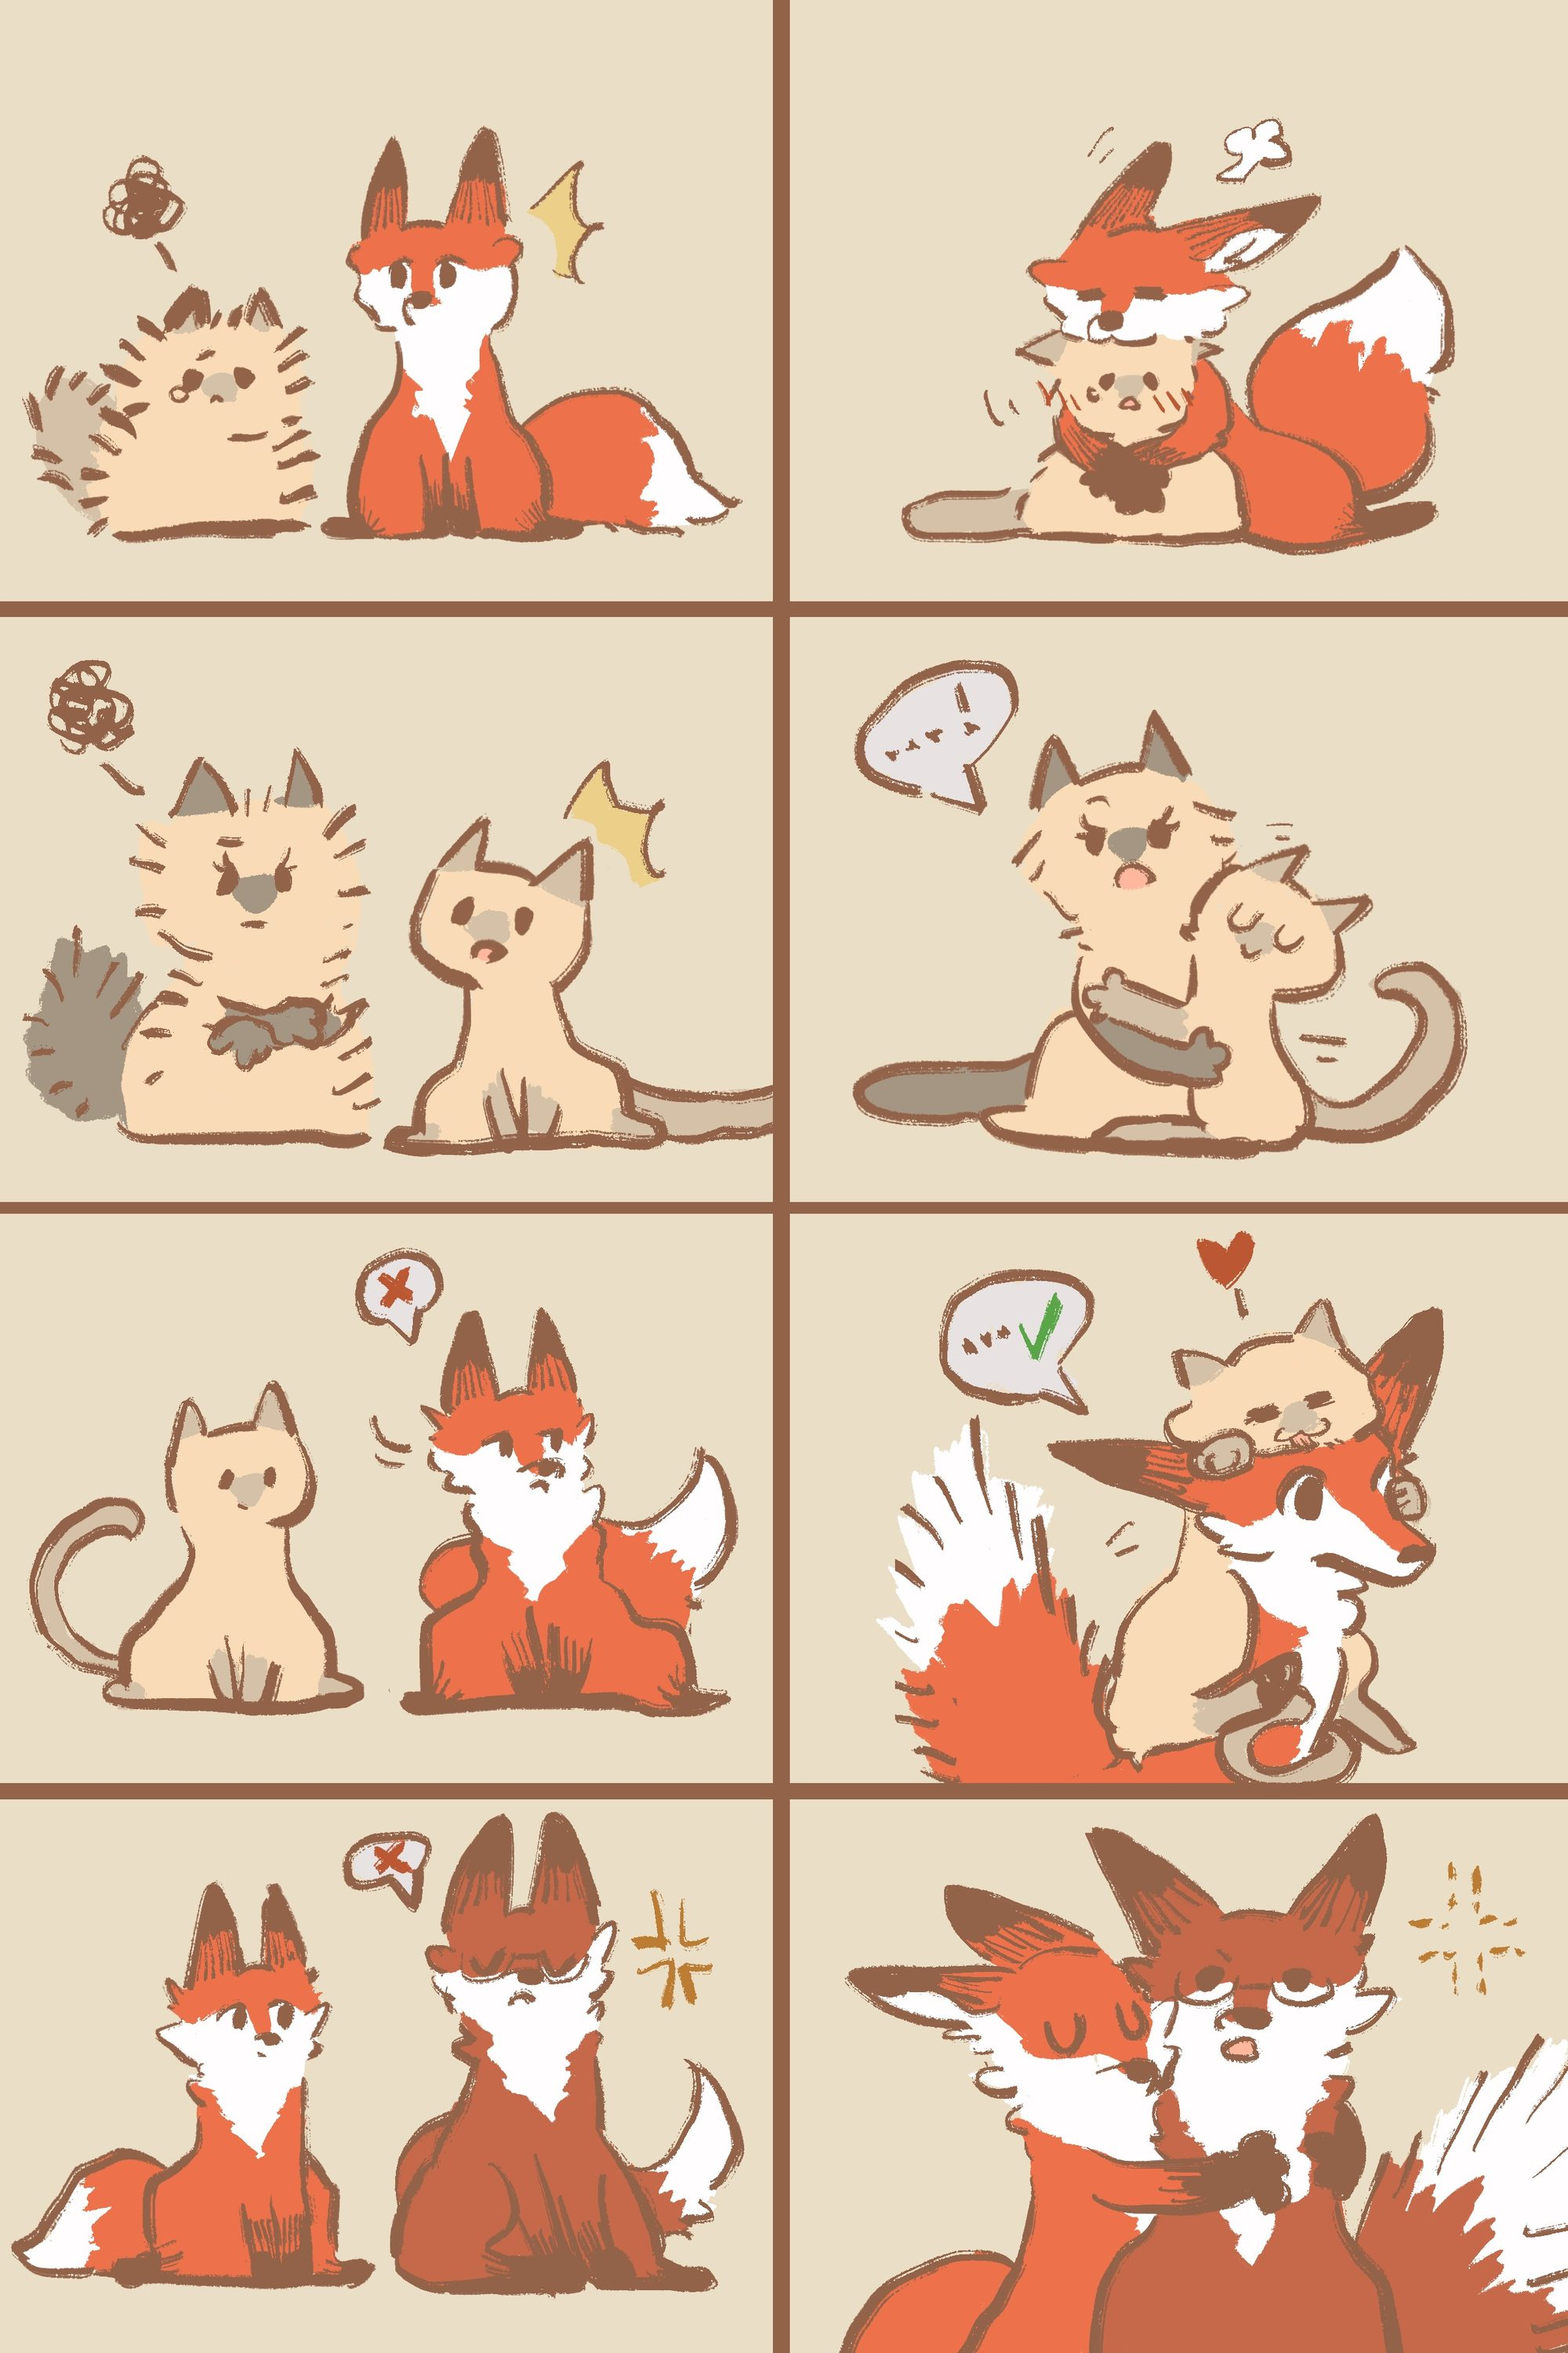
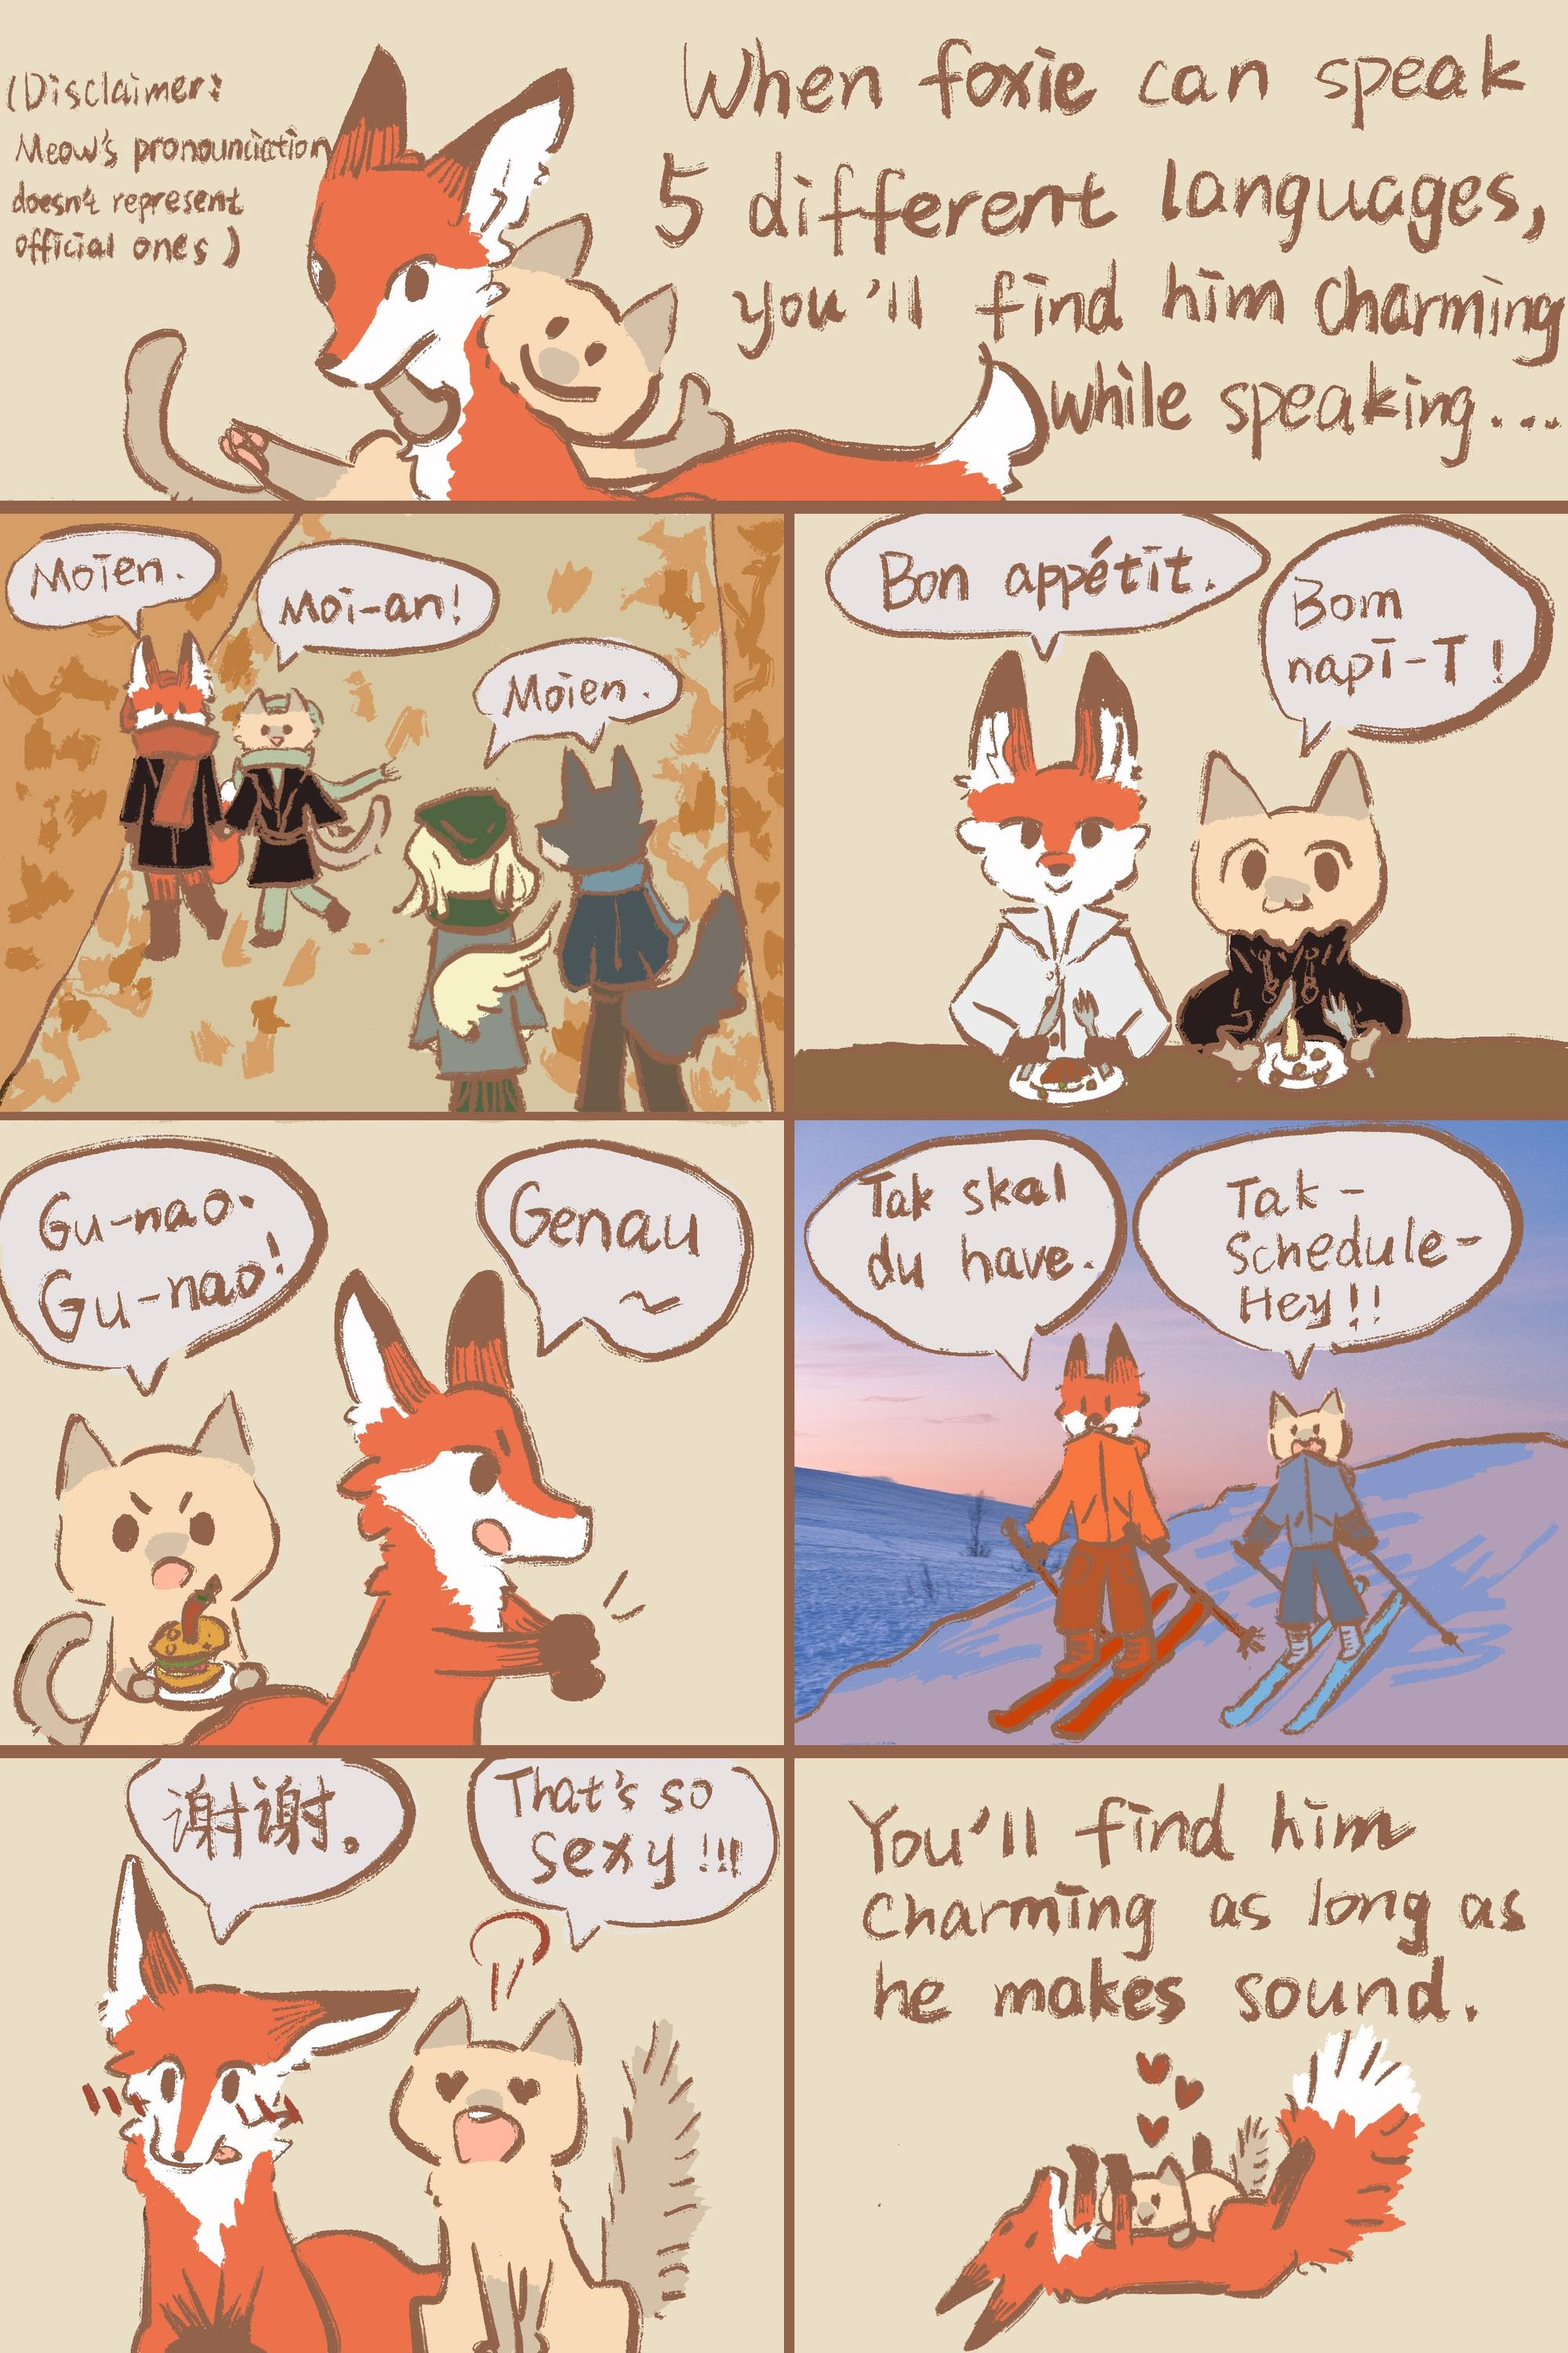
Add new poster to Graphic Designs and illustration to Illustrations
- graphic designs9.jpeg (Fantastical Worlds poster), compressed
- illustrations29.jpeg (fox illustration)
- Comics renumbering (comics6-8, comics9 removed) included so the
  regenerated drawings-data.js matches the images on disk
- Visual Arts count now 58 works

diff --git a/gallery/data/drawings-data.js b/gallery/data/drawings-data.js
@@ -43,7 +43,7 @@
   }
 
   window.DRAWINGS_DATA = {
-    totalCount: 56,
+    totalCount: 58,
     collections: [
       {
         id: "sketches",
@@ -68,31 +68,32 @@
         images: [
         { id: "illustrations-015", src: "../images/gallery/drawings/illustration/illustrations15.jpeg", alt: "", category: "illustrations", aspectRatio: "3000 / 1688" },
         { id: "illustrations-002", src: "../images/gallery/drawings/illustration/illustrations2.jpeg", alt: "", category: "illustrations", aspectRatio: "3000 / 1932" },
-        { id: "illustrations-003", src: "../images/gallery/drawings/illustration/illustrations3.jpeg", alt: "", category: "illustrations", aspectRatio: "3000 / 2250" },
+        { id: "illustrations-029", src: "../images/gallery/drawings/illustration/illustrations29.jpeg", alt: "", category: "illustrations", aspectRatio: "1086 / 724" },
+        { id: "illustrations-005", src: "../images/gallery/drawings/illustration/illustrations5.jpeg", alt: "", category: "illustrations", aspectRatio: "2143 / 3000" },
         { id: "illustrations-017", src: "../images/gallery/drawings/illustration/illustrations17.jpeg", alt: "", category: "illustrations", aspectRatio: "2121 / 3000" },
         { id: "illustrations-028", src: "../images/gallery/drawings/illustration/illustrations28.jpeg", alt: "", category: "illustrations", aspectRatio: "2121 / 3000" },
-        { id: "illustrations-004", src: "../images/gallery/drawings/illustration/illustrations4.jpeg", alt: "", category: "illustrations", aspectRatio: "1688 / 3000" },
+        { id: "illustrations-003", src: "../images/gallery/drawings/illustration/illustrations3.jpeg", alt: "", category: "illustrations", aspectRatio: "3000 / 2250" },
         { id: "illustrations-024", src: "../images/gallery/drawings/illustration/illustrations24.jpeg", alt: "", category: "illustrations", aspectRatio: "3000 / 2945" },
         { id: "illustrations-001", src: "../images/gallery/drawings/illustration/illustrations1.jpeg", alt: "", category: "illustrations", aspectRatio: "2048 / 2048" },
-        { id: "illustrations-006", src: "../images/gallery/drawings/illustration/illustrations6.jpeg", alt: "", category: "illustrations", aspectRatio: "2048 / 2048" },
+        { id: "illustrations-026", src: "../images/gallery/drawings/illustration/illustrations26.jpeg", alt: "", category: "illustrations", aspectRatio: "2048 / 2048" },
         { id: "illustrations-027", src: "../images/gallery/drawings/illustration/illustrations27.jpeg", alt: "", category: "illustrations", aspectRatio: "2048 / 2048" },
         { id: "illustrations-013", src: "../images/gallery/drawings/illustration/illustrations13.jpeg", alt: "", category: "illustrations", aspectRatio: "2250 / 3000" },
-        { id: "illustrations-005", src: "../images/gallery/drawings/illustration/illustrations5.jpeg", alt: "", category: "illustrations", aspectRatio: "2143 / 3000" },
+        { id: "illustrations-006", src: "../images/gallery/drawings/illustration/illustrations6.jpeg", alt: "", category: "illustrations", aspectRatio: "2048 / 2048" },
         { id: "illustrations-007", src: "../images/gallery/drawings/illustration/illustrations7.jpeg", alt: "", category: "illustrations", aspectRatio: "2048 / 2048" },
         { id: "illustrations-008", src: "../images/gallery/drawings/illustration/illustrations8.jpeg", alt: "", category: "illustrations", aspectRatio: "2048 / 2048" },
-        { id: "illustrations-009", src: "../images/gallery/drawings/illustration/illustrations9.jpeg", alt: "", category: "illustrations", aspectRatio: "2048 / 2048" },
+        { id: "illustrations-022", src: "../images/gallery/drawings/illustration/illustrations22.jpeg", alt: "", category: "illustrations", aspectRatio: "2048 / 2048" },
         { id: "illustrations-023", src: "../images/gallery/drawings/illustration/illustrations23.jpeg", alt: "", category: "illustrations", aspectRatio: "2048 / 2048" },
         { id: "illustrations-025", src: "../images/gallery/drawings/illustration/illustrations25.jpeg", alt: "", category: "illustrations", aspectRatio: "2048 / 2048" },
-        { id: "illustrations-026", src: "../images/gallery/drawings/illustration/illustrations26.jpeg", alt: "", category: "illustrations", aspectRatio: "2048 / 2048" },
+        { id: "illustrations-009", src: "../images/gallery/drawings/illustration/illustrations9.jpeg", alt: "", category: "illustrations", aspectRatio: "2048 / 2048" },
         { id: "illustrations-010", src: "../images/gallery/drawings/illustration/illustrations10.jpeg", alt: "", category: "illustrations", aspectRatio: "1905 / 1905" },
         { id: "illustrations-011", src: "../images/gallery/drawings/illustration/illustrations11.jpeg", alt: "", category: "illustrations", aspectRatio: "2048 / 2048" },
-        { id: "illustrations-014", src: "../images/gallery/drawings/illustration/illustrations14.jpeg", alt: "", category: "illustrations", aspectRatio: "2048 / 2048" },
+        { id: "illustrations-019", src: "../images/gallery/drawings/illustration/illustrations19.jpeg", alt: "", category: "illustrations", aspectRatio: "2048 / 2048" },
         { id: "illustrations-020", src: "../images/gallery/drawings/illustration/illustrations20.jpeg", alt: "", category: "illustrations", aspectRatio: "2048 / 2048" },
         { id: "illustrations-021", src: "../images/gallery/drawings/illustration/illustrations21.jpeg", alt: "", category: "illustrations", aspectRatio: "2048 / 2048" },
-        { id: "illustrations-022", src: "../images/gallery/drawings/illustration/illustrations22.jpeg", alt: "", category: "illustrations", aspectRatio: "2048 / 2048" },
+        { id: "illustrations-014", src: "../images/gallery/drawings/illustration/illustrations14.jpeg", alt: "", category: "illustrations", aspectRatio: "2048 / 2048" },
         { id: "illustrations-016", src: "../images/gallery/drawings/illustration/illustrations16.jpeg", alt: "", category: "illustrations", aspectRatio: "2048 / 2048" },
         { id: "illustrations-018", src: "../images/gallery/drawings/illustration/illustrations18.jpeg", alt: "", category: "illustrations", aspectRatio: "2048 / 2048" },
-        { id: "illustrations-019", src: "../images/gallery/drawings/illustration/illustrations19.jpeg", alt: "", category: "illustrations", aspectRatio: "2048 / 2048" },
+        { id: "illustrations-004", src: "../images/gallery/drawings/illustration/illustrations4.jpeg", alt: "", category: "illustrations", aspectRatio: "1688 / 3000" },
         { id: "illustrations-012", src: "../images/gallery/drawings/illustration/illustrations12.jpeg", alt: "", category: "illustrations", aspectRatio: "1688 / 3000" }
       ]
       },
@@ -106,9 +107,9 @@
         { id: "comics-003", src: "../images/gallery/drawings/comic/comics3.jpeg", alt: "", category: "comics", aspectRatio: "2000 / 3000" },
         { id: "comics-004", src: "../images/gallery/drawings/comic/comics4.jpeg", alt: "", category: "comics", aspectRatio: "1687 / 3000" },
         { id: "comics-005", src: "../images/gallery/drawings/comic/comics5.jpeg", alt: "", category: "comics", aspectRatio: "1255 / 3000" },
-        { id: "comics-006", src: "../images/gallery/drawings/comic/comics7.jpeg", alt: "", category: "comics", aspectRatio: "2000 / 3000" },
-        { id: "comics-007", src: "../images/gallery/drawings/comic/comics8.jpeg", alt: "", category: "comics", aspectRatio: "2000 / 3000" },
-        { id: "comics-008", src: "../images/gallery/drawings/comic/comics9.jpeg", alt: "", category: "comics", aspectRatio: "2000 / 3000" }
+        { id: "comics-006", src: "../images/gallery/drawings/comic/comics6.jpeg", alt: "", category: "comics", aspectRatio: "2000 / 3000" },
+        { id: "comics-007", src: "../images/gallery/drawings/comic/comics7.jpeg", alt: "", category: "comics", aspectRatio: "2000 / 3000" },
+        { id: "comics-008", src: "../images/gallery/drawings/comic/comics8.jpeg", alt: "", category: "comics", aspectRatio: "2000 / 3000" }
       ]
       },
       {
@@ -121,6 +122,7 @@
         { id: "graphic-designs-005", src: "../images/gallery/drawings/graphic design/graphic designs6.jpeg", alt: "", category: "graphic-designs", aspectRatio: "1503 / 292" },
         { id: "graphic-designs-006", src: "../images/gallery/drawings/graphic design/graphic designs7.jpeg", alt: "", category: "graphic-designs", aspectRatio: "1503 / 292" },
         { id: "graphic-designs-007", src: "../images/gallery/drawings/graphic design/graphic designs8.jpeg", alt: "", category: "graphic-designs", aspectRatio: "1503 / 292" },
+        { id: "graphic-designs-008", src: "../images/gallery/drawings/graphic design/graphic designs9.jpeg", alt: "", category: "graphic-designs", aspectRatio: "1586 / 1982" },
         { id: "graphic-designs-002", src: "../images/gallery/drawings/graphic design/graphic designs2.jpeg", alt: "", category: "graphic-designs", aspectRatio: "2121 / 3000" },
         { id: "graphic-designs-001", src: "../images/gallery/drawings/graphic design/graphic designs1.jpeg", alt: "", category: "graphic-designs", aspectRatio: "1050 / 1498" }
       ]

diff --git a/index.html b/index.html
@@ -699,7 +699,7 @@ and being human.
       <span class="gallery-panel-content">
         <span class="gallery-panel-title">Visual Arts</span>
         <span class="gallery-panel-copy">Ways of seeing<br>beyond the camera.</span>
-        <span class="gallery-panel-count">56 works</span>
+        <span class="gallery-panel-count">58 works</span>
       </span>
     </a>
 
